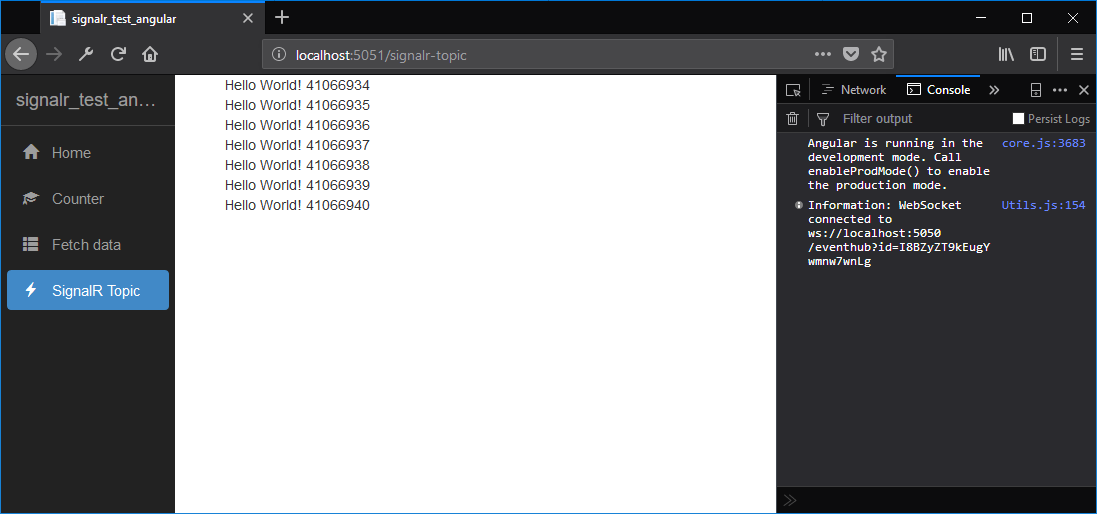
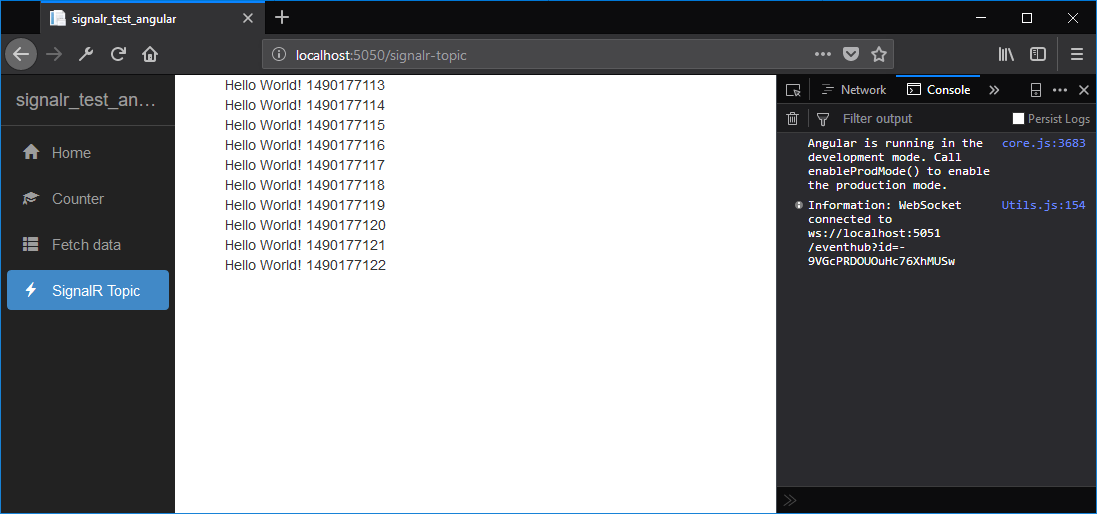
correcting port numbers

Changed region(s): [[0.186, 0.1556, 0.3719, 0.5292], [0.7129, 0.4669, 0.8988, 0.5292], [0.3409, 0.0934, 0.3719, 0.1245]]

diff --git a/src/signalr-test-angular/ClientApp/src/app/signalr-topic/signalr-topic.component.ts b/src/signalr-test-angular/ClientApp/src/app/signalr-topic/signalr-topic.component.ts
@@ -12,7 +12,7 @@ export class SignalRTopicComponent implements OnInit {
   ngOnInit(): void {
     const divMessages = document.querySelector("#divMessages");
     this.hubConnection = new HubConnectionBuilder()
-      .withUrl("http://localhost:5050/eventhub")
+      .withUrl("http://localhost:5051/eventhub")
       .build();
     this.hubConnection.start().catch(err => document.write(err));
     this.hubConnection.on("echo", (message: string) => {

diff --git a/src/signalr-event-hub/Startup.cs b/src/signalr-event-hub/Startup.cs
@@ -27,7 +27,7 @@ namespace signalr_event_hub
                     builder
                         
                         .AllowAnyMethod().AllowCredentials()
-                        .AllowAnyHeader().WithOrigins("http://localhost:5051");
+                        .AllowAnyHeader().WithOrigins("http://localhost:5050");
                 }));
             services.AddMvc();
 

diff --git a/src/signalr-test-client/Program.cs b/src/signalr-test-client/Program.cs
@@ -16,7 +16,7 @@ namespace signalr_test_client
 
         static async Task t(){
             connection = new HubConnectionBuilder()
-                .WithUrl("http://localhost:5050/eventhub")
+                .WithUrl("http://localhost:5051/eventhub")
                 .Build();
             connection.On<string, string>("publishmessage", (topic, message) =>
             {

diff --git a/src/signalr-test-angular/Program.cs b/src/signalr-test-angular/Program.cs
@@ -19,7 +19,7 @@ namespace signalr_test_angular
 
         public static IWebHostBuilder CreateWebHostBuilder(string[] args) =>
             WebHost.CreateDefaultBuilder(args)
-                .UseUrls("http://localhost:5051")
+                .UseUrls("http://localhost:5050")
                 .UseStartup<Startup>();
     }
 }

diff --git a/src/signalr-event-hub/Program.cs b/src/signalr-event-hub/Program.cs
@@ -22,7 +22,7 @@ namespace signalr_event_hub
             WebHost.CreateDefaultBuilder(args)
                 .UseMetrics()
                 .UseStartup<Startup>()
-                .UseUrls("http://localhost:5050")
+                .UseUrls("http://localhost:5051")
                 .Build();
     }
 }
